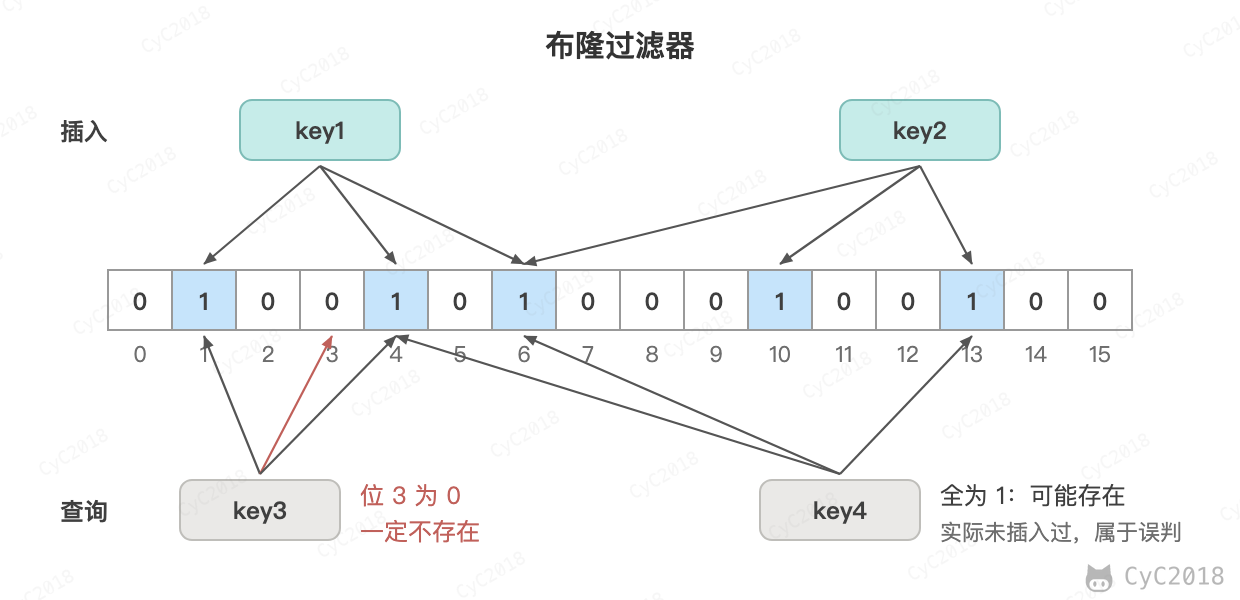
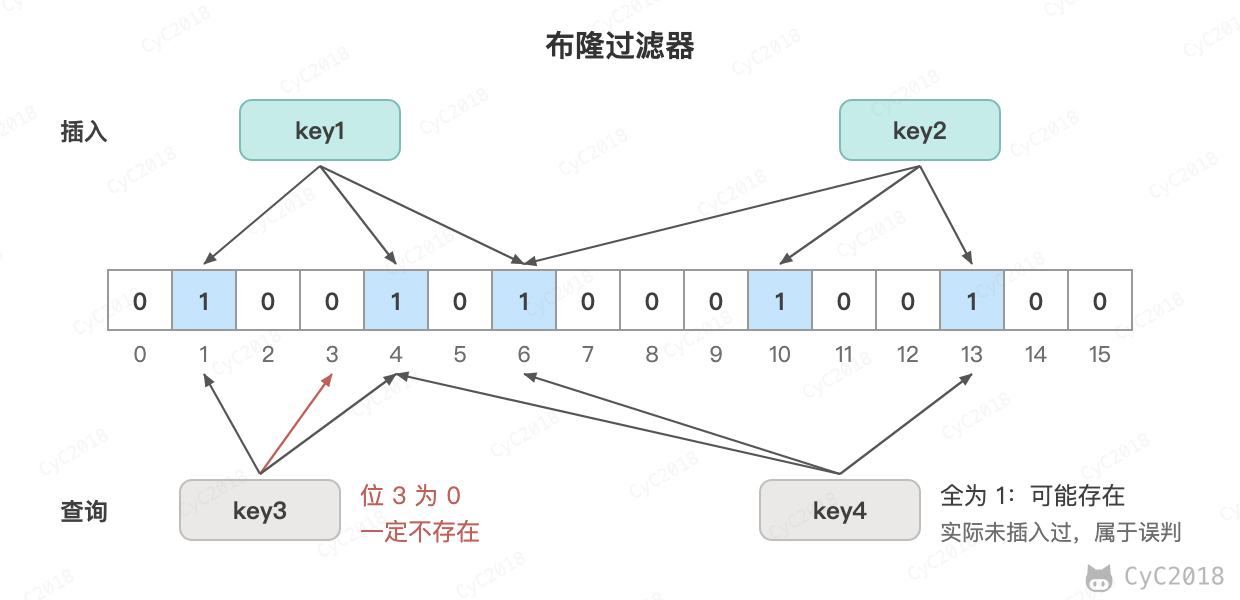
Update 缓存.md
正文中“本机回环”的说法改为客户端与 Redis 在同一台机器上；布隆过滤器与 LRU 的配图改由脚本生成。

diff --git a/notes/缓存.md b/notes/缓存.md
@@ -67,7 +67,7 @@
 
 <div align="center"> <img src="pics/multilevel-cache.png" width="760px"/> </div><br>
 
-Caffeine 读取一次约 21 纳秒；用单个连接逐条向 Redis 发送 GET，每次约 68 微秒，相差三千多倍（JDK 21、Redis 7.4 实测，见[附录 A1](#a1-本地缓存与-redis-的读取耗时)），这还只是本机回环，跨机器访问还要加上网络往返。热点数据放在本地缓存中，既省去了网络开销，也不会让请求集中到存放这个热点键的 Redis 节点上。
+Caffeine 读取一次约 21 纳秒；用单个连接逐条向 Redis 发送 GET，每次约 68 微秒，相差三千多倍（JDK 21、Redis 7.4 实测，见[附录 A1](#a1-本地缓存与-redis-的读取耗时)），这还只是客户端与 Redis 在同一台机器上的结果，跨机器访问还要加上网络往返。热点数据放在本地缓存中，既省去了网络开销，也不会让请求集中到存放这个热点键的 Redis 节点上。
 
 本地缓存在每个实例中各存一份，难点在于数据更新后怎样让所有实例失效：
 
